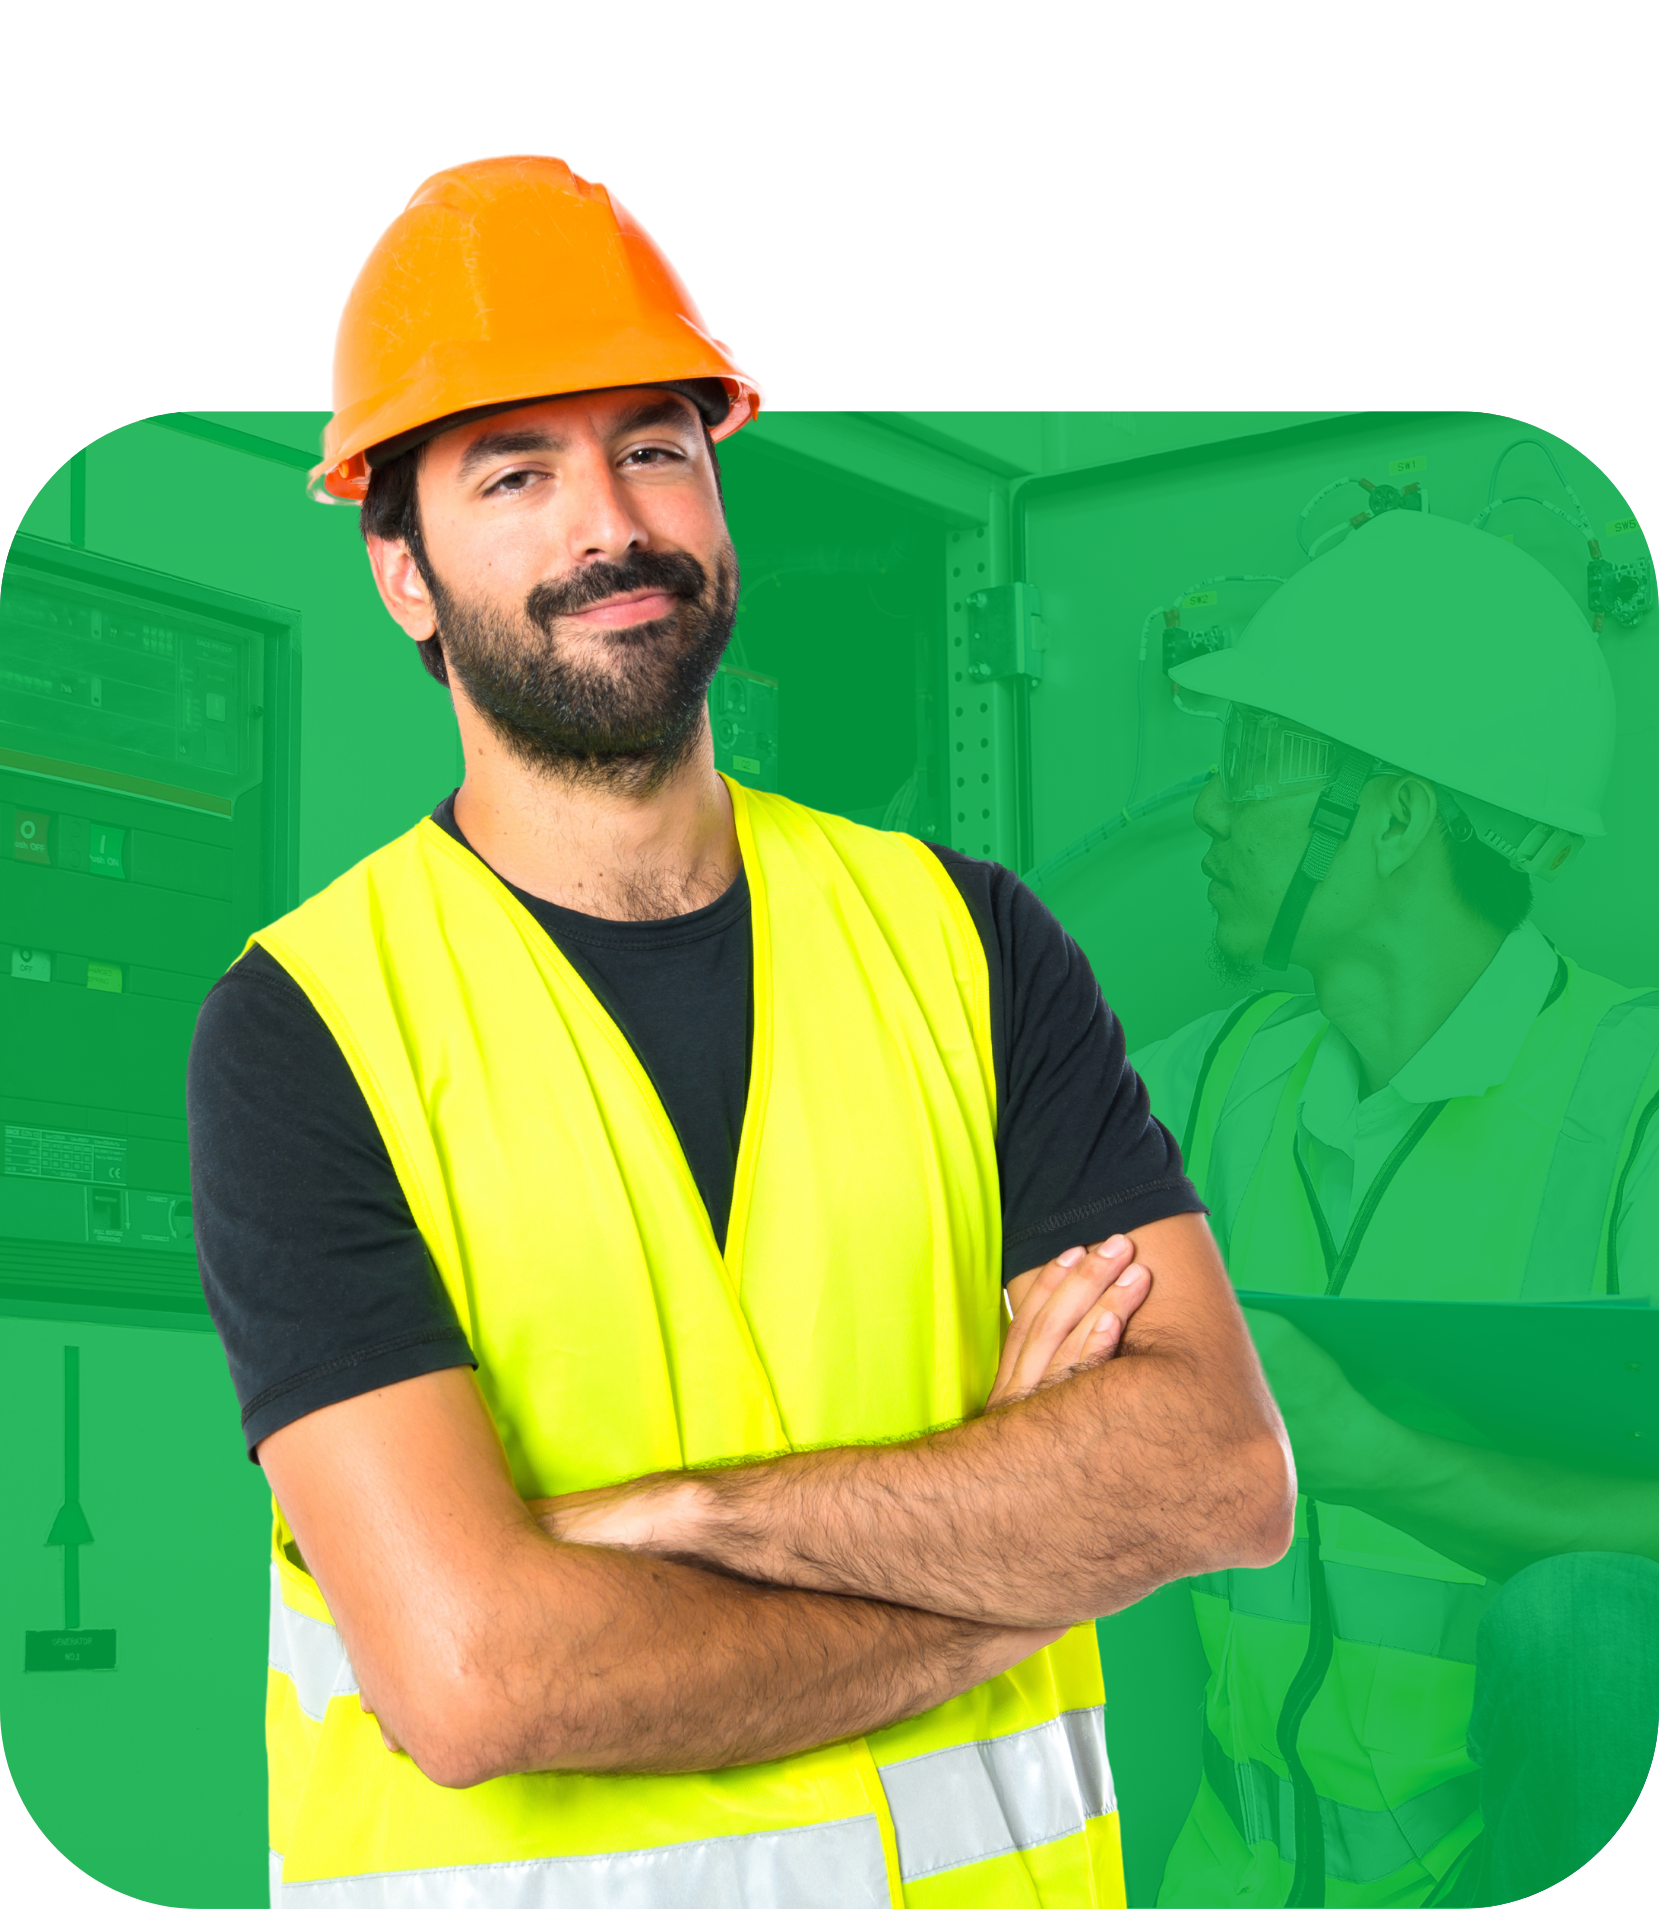
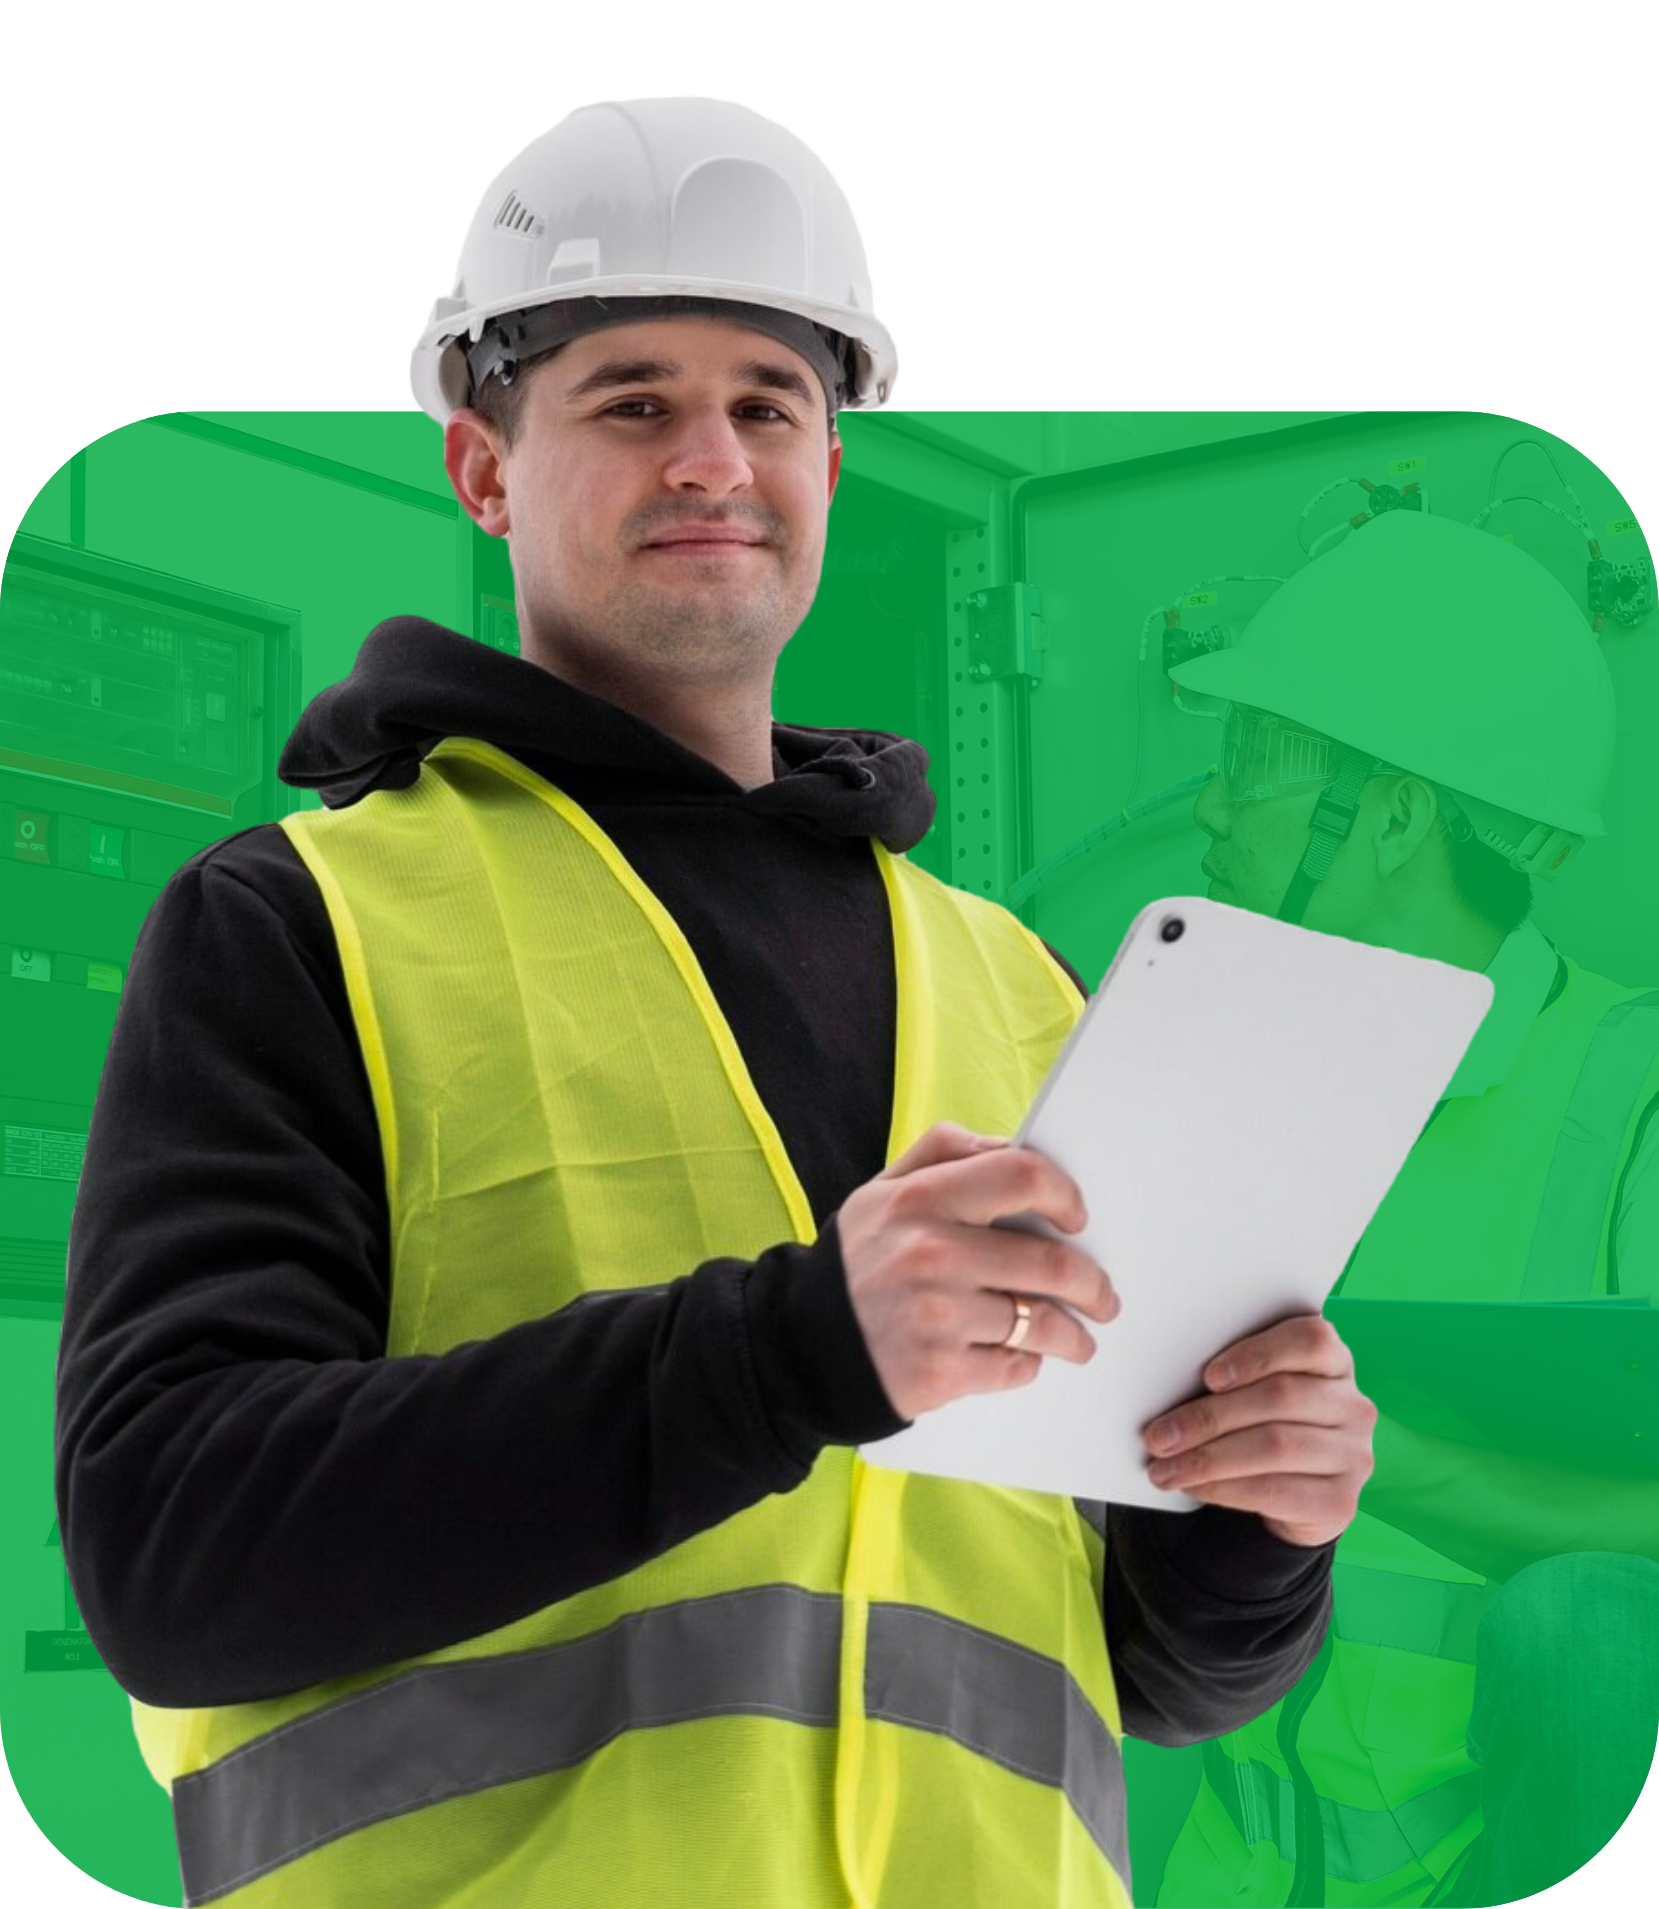
adding about photo

diff --git a/about.html b/about.html
@@ -258,7 +258,7 @@
 					<div class="company-history-image">
 						<div class="company-history-img">
 							<figure class="image-anime reveal">
-								<img src="images/about.jpg" alt="">
+								<img src="images/about3.png" alt="">
 							</figure>
 						</div>
 
@@ -354,7 +354,7 @@
 
 
 	<!-- Cta Box Section Start -->
-	<div class="cta-box">
+	<div class="cta-box mt-5">
 		<div class="container">
 			<div class="row align-items-center">
 				<div class="col-lg-7 col-md-8">
